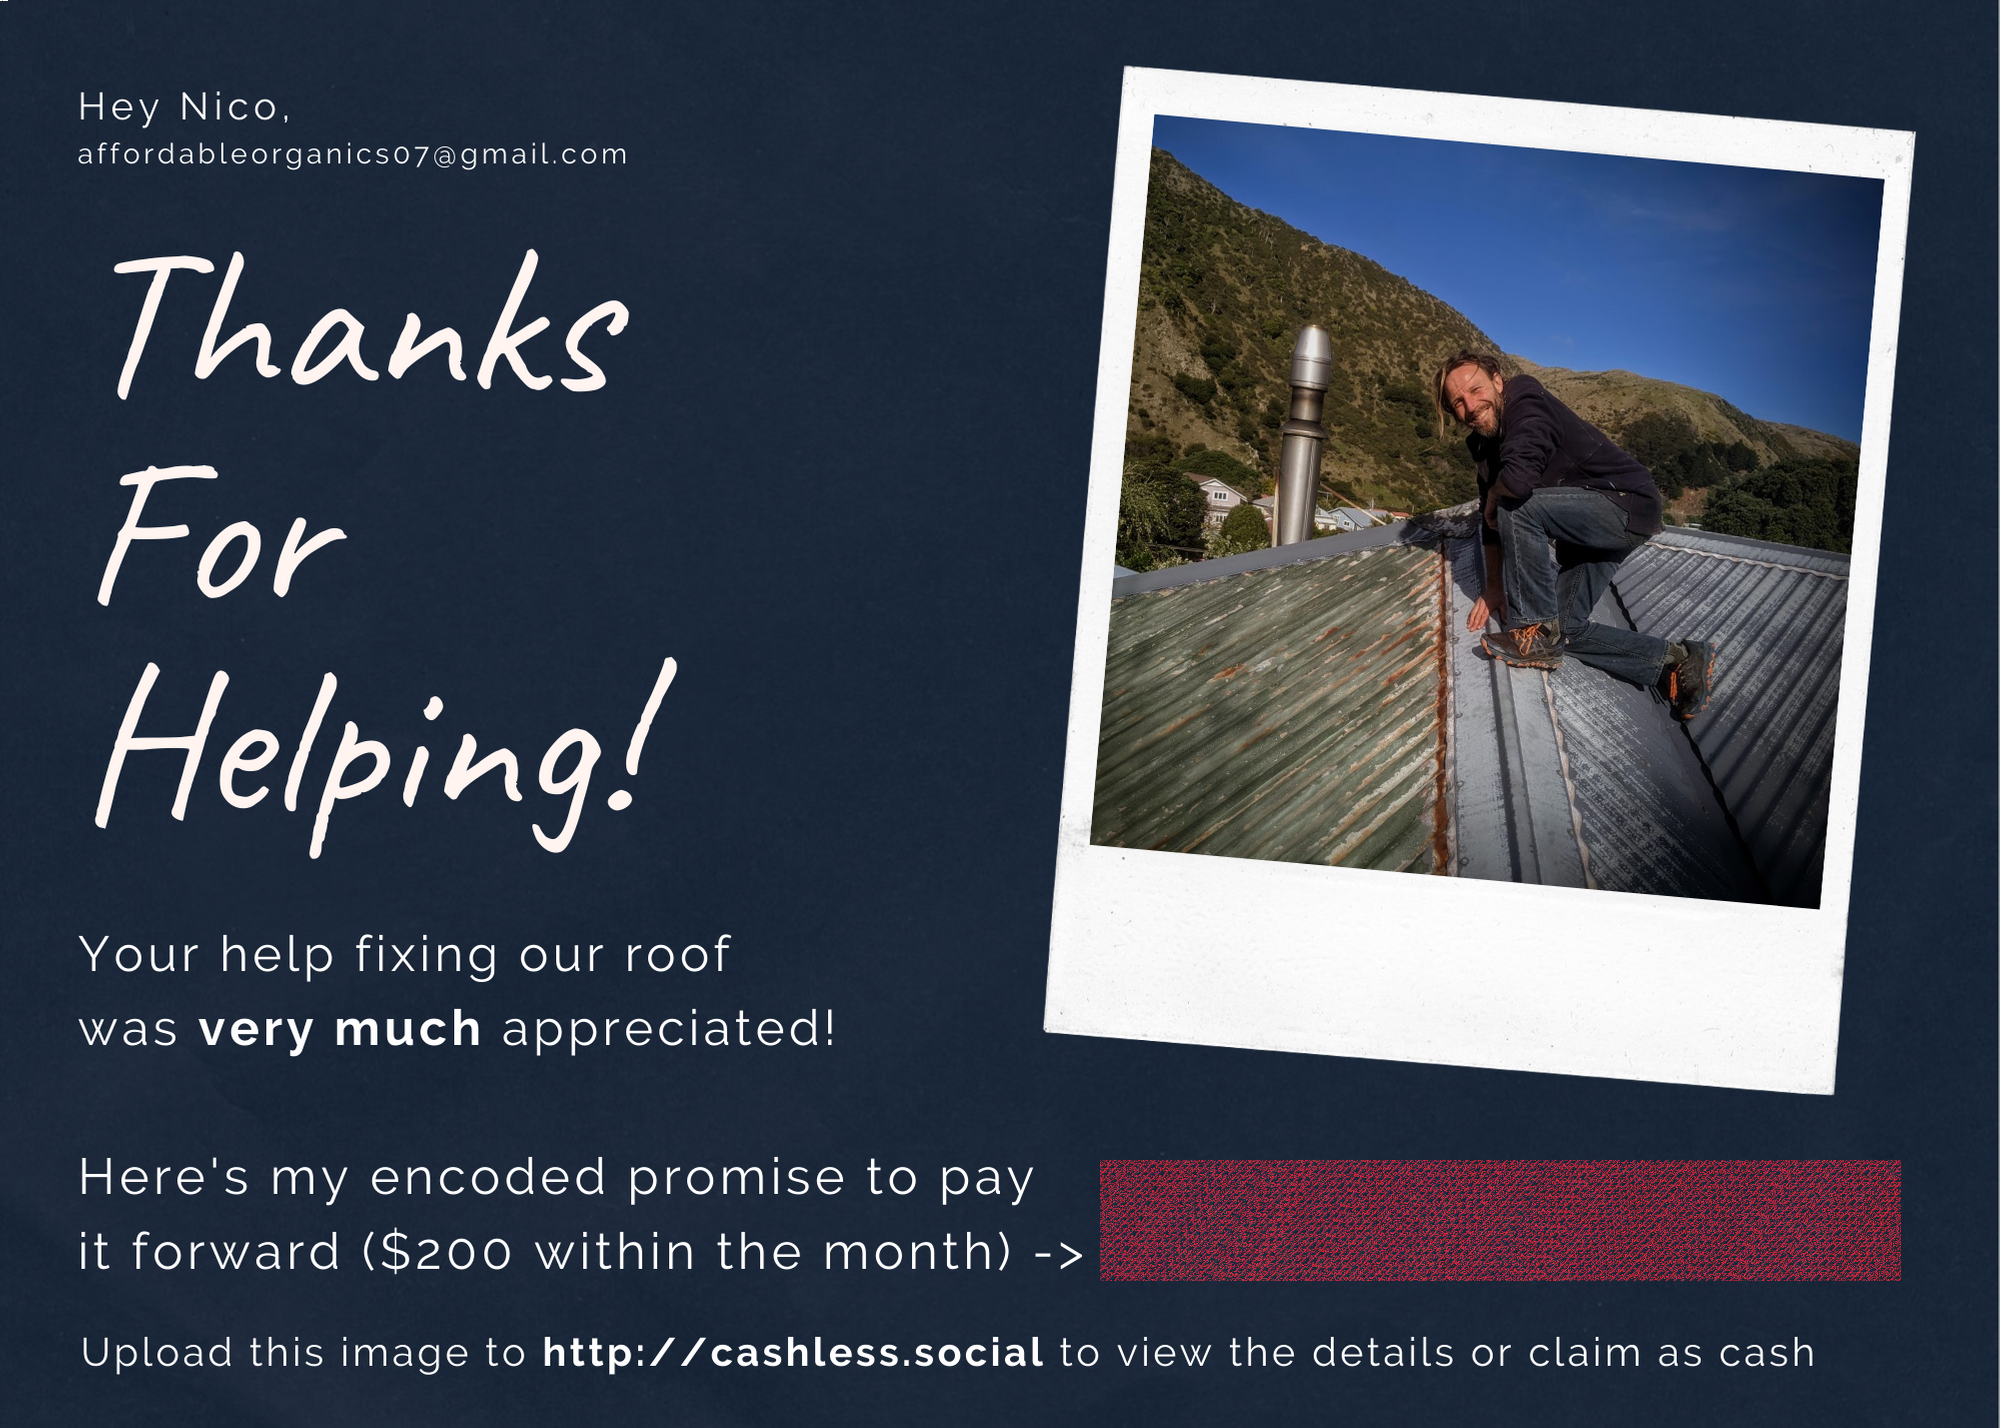
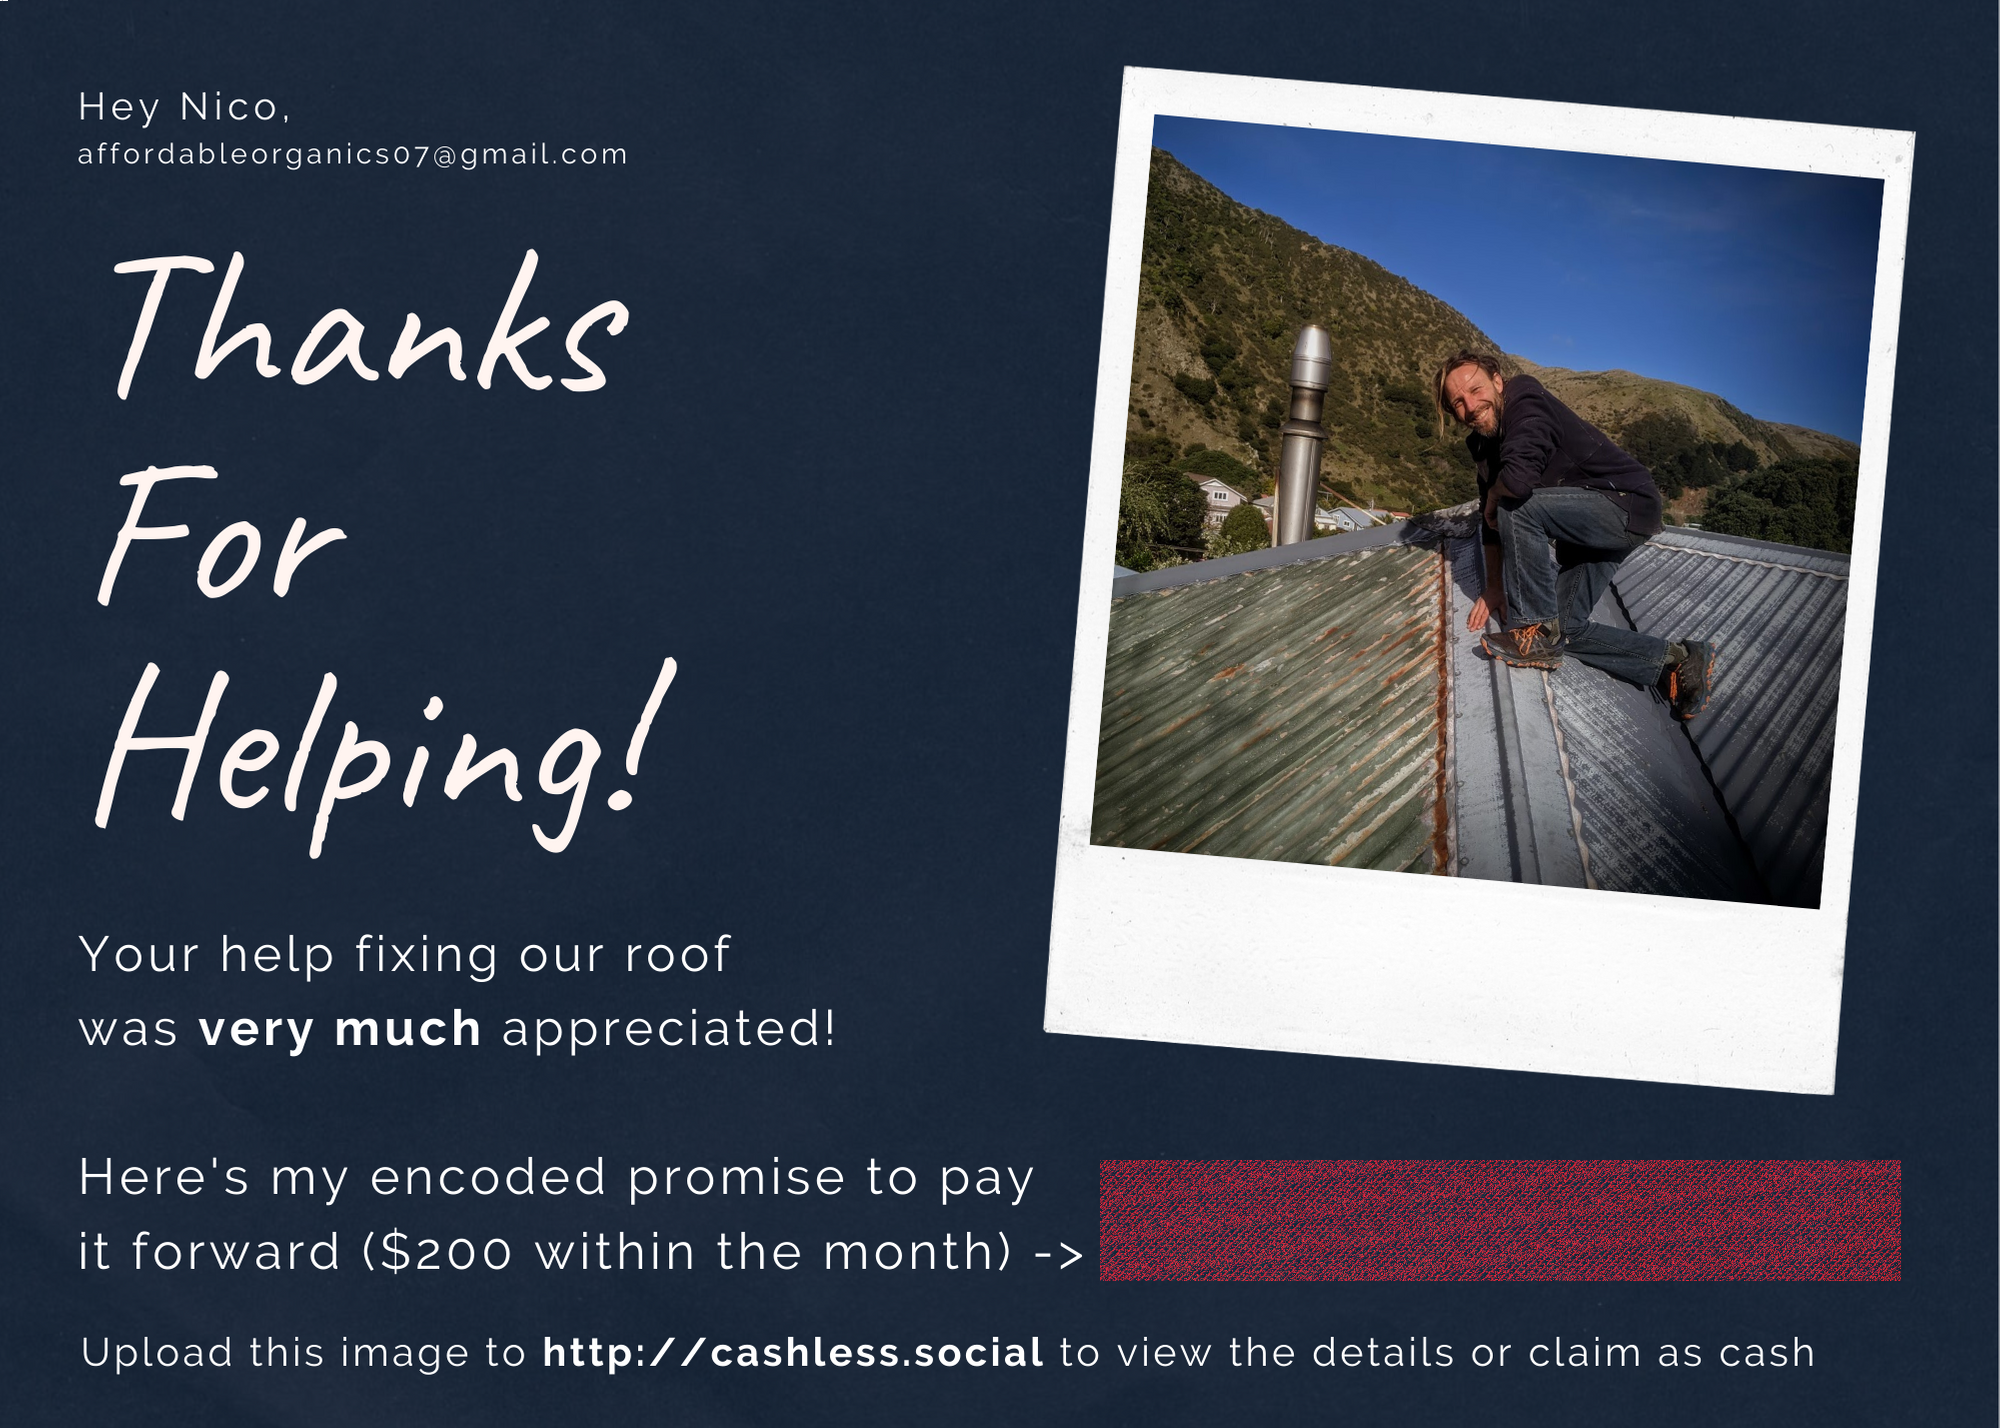
Few last minute tweaks

Changed region(s): [[0.527, 0.8011, 0.961, 0.8936]]

diff --git a/CashlessImage/ImageMaker.cs b/CashlessImage/ImageMaker.cs
@@ -65,7 +65,8 @@ namespace CashlessImage
             int pixelPtr;
             pixelData = WriteHeader(pixelData, Header, out pixelPtr);
 
-            int dataPtr = 0; 
+            int dataPtr = 0;
+            int repititionCounter = 0;
             int pixelBitPtr = -1;
             while (pixelPtr < pixels.Length)
             {
@@ -87,13 +88,17 @@ namespace CashlessImage
                 // if we run out of data to write, just
                 // repeat it (for visual symmetry)
                 if (dataPtr == data.Length)
+                {
                     dataPtr = 0;
+                    repititionCounter++;
+
+                }
 
                 // once we run out of data to write just stop
                 //if (dataPtr == data.Length)
                 //    break;
             }
-
+            Console.Out.WriteLine(string.Format("Data repeated {0} times", repititionCounter)); 
             var retVal = new int[pixels.Length];
             pixelData.CopyTo(retVal, 0);
             return retVal;

diff --git a/CashlessImage/Program.cs b/CashlessImage/Program.cs
@@ -27,7 +27,6 @@ namespace CashlessImage
 
             parser.Configure(opt => opt.ImgInputFile)
                 .Name("i", "image_input")
-                .Default("thanks_for_helping.png")
                 .Description("Input file name")
                 .Required();
 
@@ -39,7 +38,6 @@ namespace CashlessImage
 
             parser.Configure(opt => opt.ImgMergedDataFile)
                 .Name("o", "output")
-                .Default("../../merged_data.png")
                 .Description("Output file name")
                 .Required();
 
